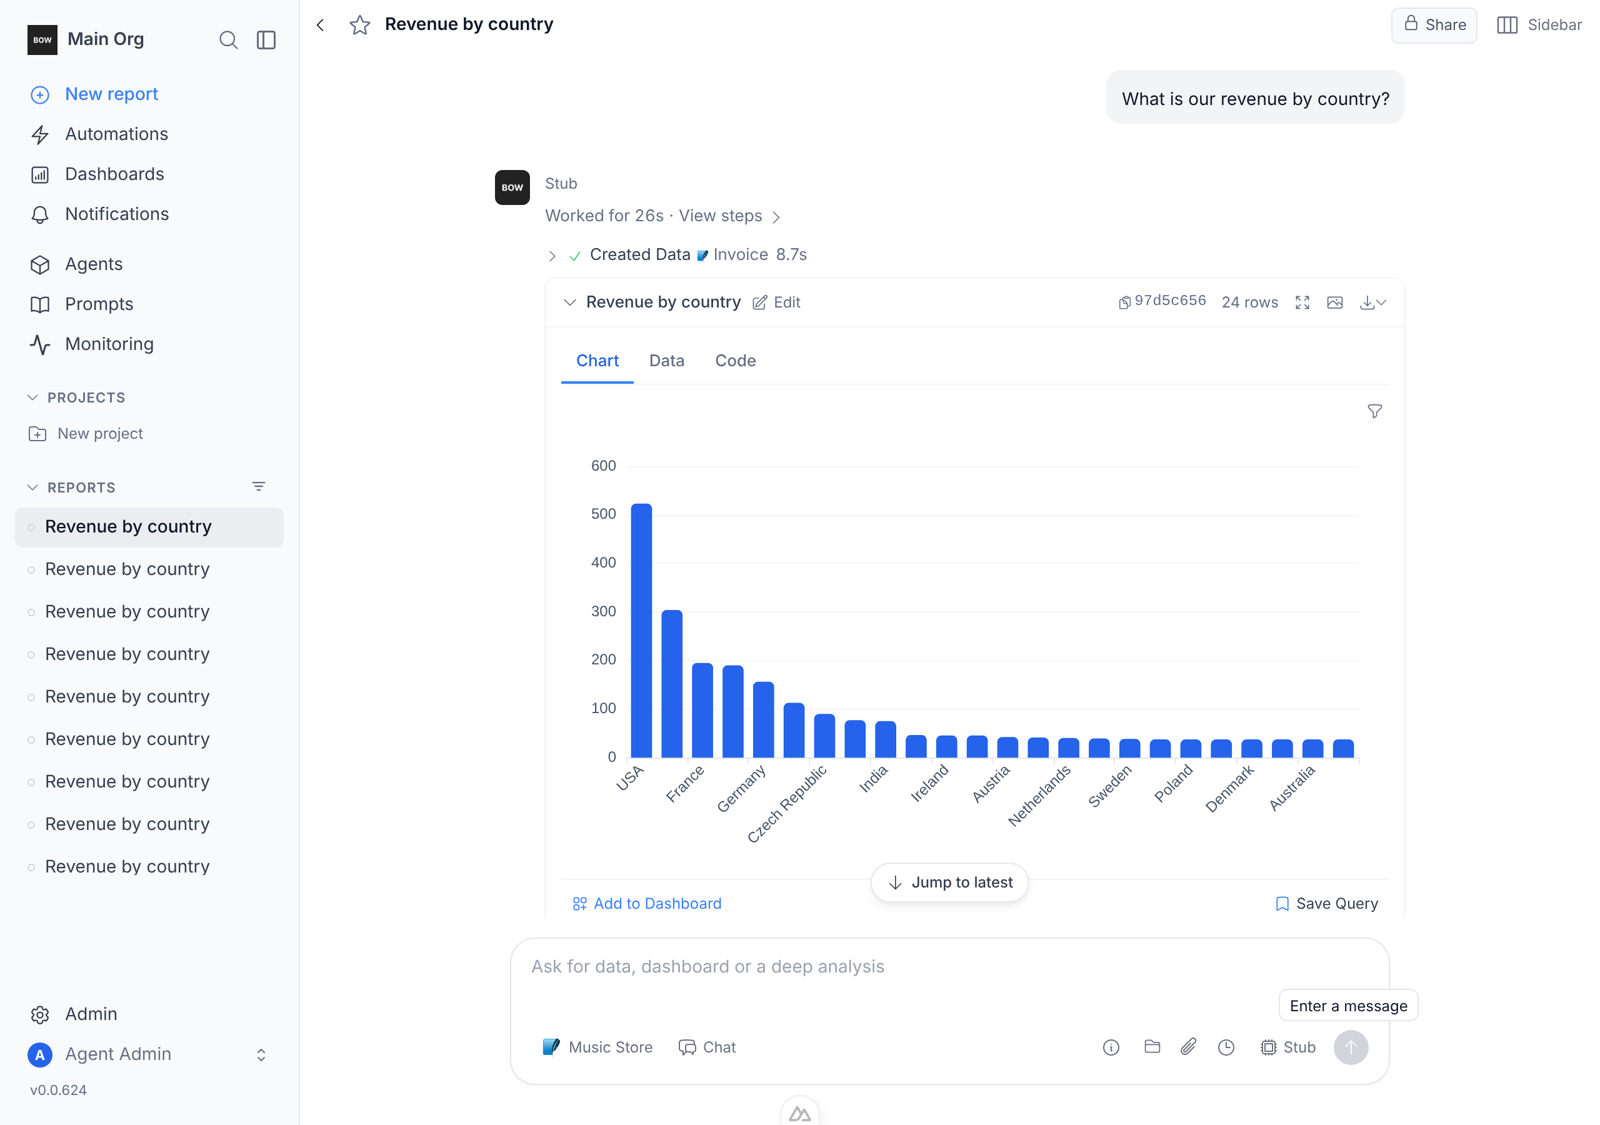
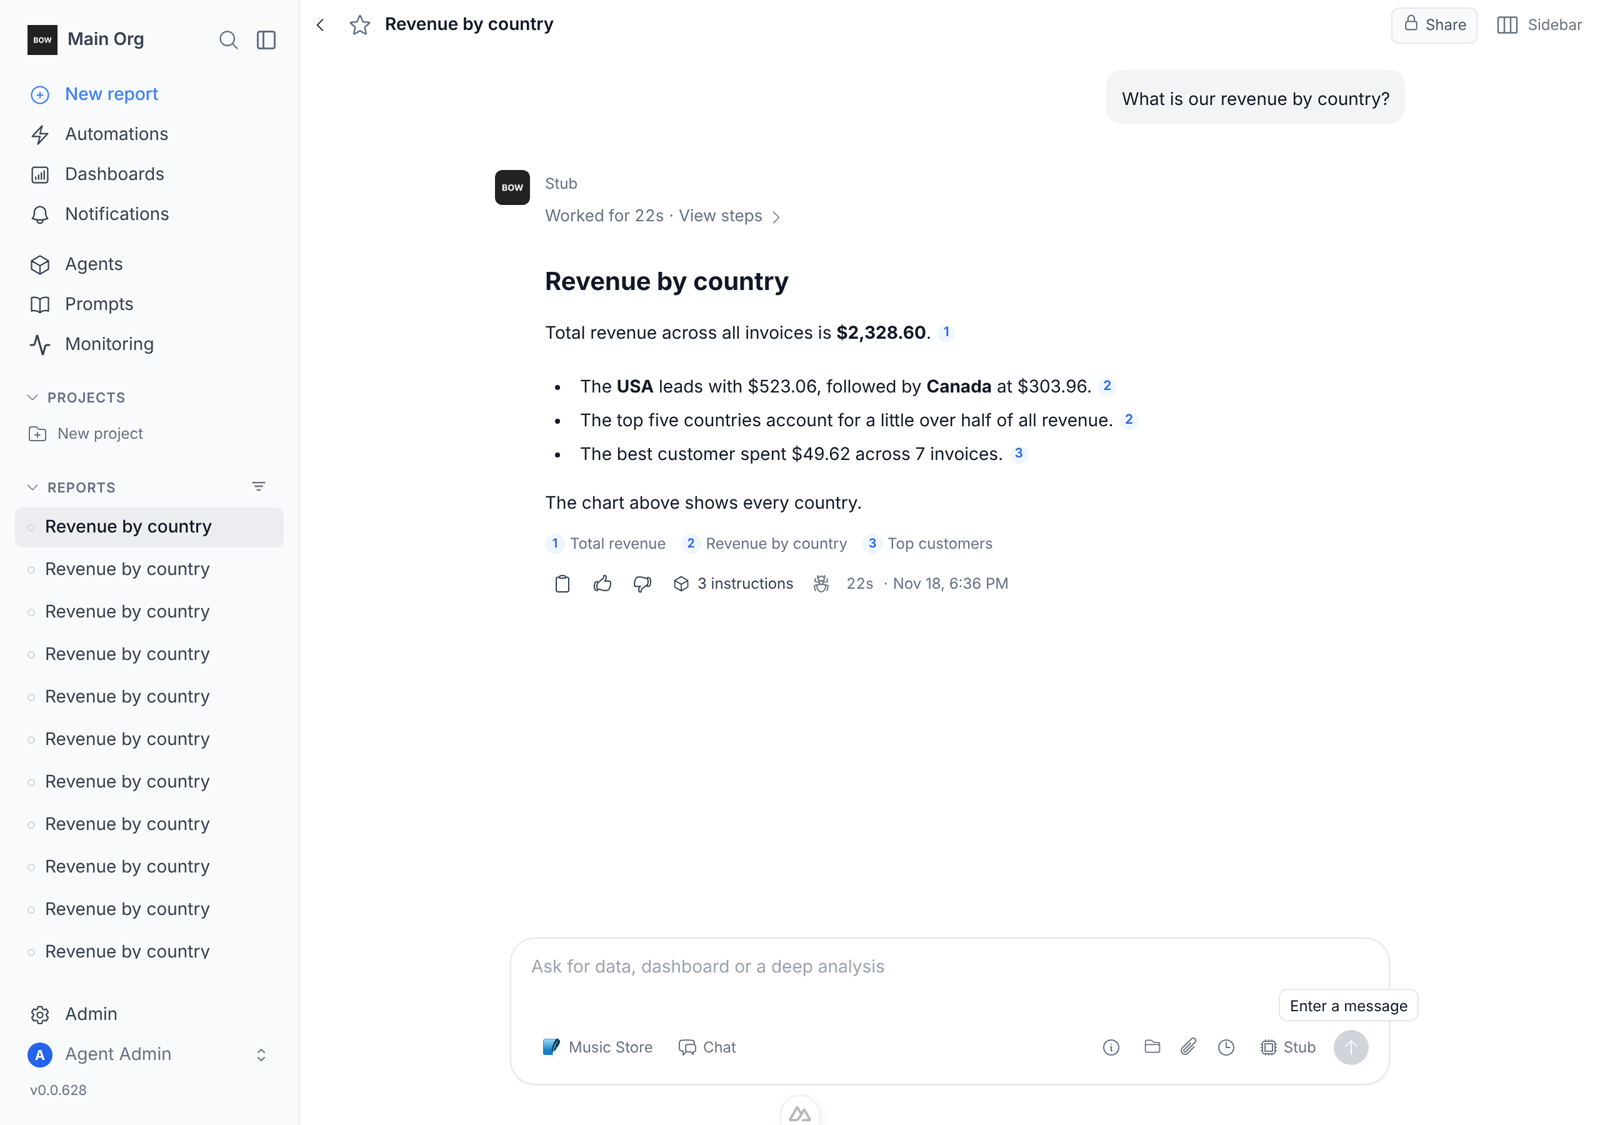
fix(reports): fold charts into the steps like every other result
A finished run now collapses all of its activity, charts included. Before,
a create_data call that produced a chart stayed open above the answer, so
a run that charted six results buried its conclusion under six cards.

Every create_data result is now a step ("Created the chart …", with its
Open action), reached from the answer through its citations and sources
line: hover previews the chart, click opens it in the side pane. The
inline-chart special case (RunActivity.inlineIds, isRunInlineBlock,
isRunProseShown and its CSS) is removed from both the report page and the
shared link.

Claude-Session: https://claude.ai/code/session_01AX2WHLUjRUHL2tgUamqwp4

diff --git a/frontend/pages/reports/[id]/index.vue b/frontend/pages/reports/[id]/index.vue
@@ -382,7 +382,7 @@
 													</div>
 												</div>
 											</div>
-											<div v-if="isRunBlockShown(m, block)" class="response-block" :class="{ 'activity-only': !(block.content || block.plan_decision?.assistant || block.plan_decision?.final_answer) && !shouldShowToolWidgetPreview(block.tool_execution), 'run-activity': isRunActivityBlock(m, block), 'run-inline': isRunInlineBlock(m, block) }" :data-run-final="isRunAnswerBlock(m, block) ? '' : undefined">
+											<div v-if="isRunBlockShown(m, block)" class="response-block" :class="{ 'activity-only': !(block.content || block.plan_decision?.assistant || block.plan_decision?.final_answer) && !shouldShowToolWidgetPreview(block.tool_execution), 'run-activity': isRunActivityBlock(m, block) }" :data-run-final="isRunAnswerBlock(m, block) ? '' : undefined">
 											<!-- Live ticker for a run of low-signal tool steps: one line that
 											     morphs in place while the run works (crossfade between step
 											     labels), then settles into a compact summary; click expands
@@ -462,7 +462,7 @@
 							<!-- 2. Block content - assistant message (hybrid streaming) -->
 							<!-- Prioritize final_answer over assistant - final_answer is the actual response -->
 							<!-- Show content section when: content exists OR final_answer exists OR assistant exists -->
-							<div v-if="(block.content || block.plan_decision?.final_answer || block.plan_decision?.assistant) && isRunProseShown(m, block) && block.status !== 'error' && block.tool_execution?.tool_name !== 'clarify'" class="block-content markdown-wrapper text-ink dark:text-gray-100" :dir="responseDir" :data-response-dir="responseDir">
+							<div v-if="(block.content || block.plan_decision?.final_answer || block.plan_decision?.assistant) && block.status !== 'error' && block.tool_execution?.tool_name !== 'clarify'" class="block-content markdown-wrapper text-ink dark:text-gray-100" :dir="responseDir" :data-response-dir="responseDir">
 								<MarkdownRender
 									:content="answerMarkdown(m, block)"
 									:final="isBlockFinalized(block)"
@@ -487,13 +487,13 @@
 												/>
 
 							<!-- 3. Tool execution (ALWAYS visible outside thinking) -->
-												<div v-if="block.tool_execution && isRunToolShown(m, block)" class="tool-execution-container text-start" :class="{ 'run-step-detail': !!runFold(m) && !isRunInlineBlock(m, block) }"  :dir="responseDir" :data-step-id="block.tool_execution?.created_step?.id || block.tool_execution?.created_step_id || ''">
+												<div v-if="block.tool_execution && isRunToolShown(m, block)" class="tool-execution-container text-start" :class="{ 'run-step-detail': !!runFold(m) }"  :dir="responseDir" :data-step-id="block.tool_execution?.created_step?.id || block.tool_execution?.created_step_id || ''">
 												<component
 													v-if="shouldUseToolComponent(block.tool_execution)"
 													:is="getToolComponent(block.tool_execution.tool_name)"
 													:key="block.id"
 													:tool-execution="block.tool_execution"
-														:hide-preview="(!!runFold(m) && block.tool_execution.tool_name === 'create_data' && !isRunInlineBlock(m, block)) || undefined"
+														:hide-preview="(!!runFold(m) && block.tool_execution.tool_name === 'create_data') || undefined"
 	                                                    :run-status="m.status"
 													:edit-group-count="editRunInfo(m, block)?.count"
 													:edit-group-last-new-text="editRunInfo(m, block)?.lastNewText"
@@ -1759,11 +1759,9 @@ const {
 	toggleRun,
 	isRunStepExpanded,
 	toggleRunStep,
-	isRunInlineBlock,
 	isRunAnswerBlock,
 	isRunBlockShown,
 	isRunActivityBlock,
-	isRunProseShown,
 	runStepHeaderFor,
 	isRunStepDetail,
 	isRunReasoningShown,
@@ -6947,11 +6945,6 @@ onMounted(async () => {
 }
 .response-block.activity-only + .response-block.activity-only {
     --response-block-gap: 8px;
-}
-/* An inline chart shown while the steps are closed sits between the row and
-   the answer with the usual block spacing. */
-.response-block.run-inline:not(.run-activity) {
-    margin-block: 8px 12px;
 }
 
 /* Folded run, opened: the chain reads as one indented thread above the

diff --git a/frontend/pages/c/[token]/index.vue b/frontend/pages/c/[token]/index.vue
@@ -137,7 +137,7 @@
                                         />
                                         <!-- Render each completion block -->
                                         <template v-for="block in timelineBlocks(m)" :key="block.id">
-                                        <div v-if="isRunBlockShown(m, block)" :class="{ 'run-activity': isRunActivityBlock(m, block), 'run-inline': isRunInlineBlock(m, block) }" :data-run-final="isRunAnswerBlock(m, block) ? '' : undefined">
+                                        <div v-if="isRunBlockShown(m, block)" :class="{ 'run-activity': isRunActivityBlock(m, block) }" :data-run-final="isRunAnswerBlock(m, block) ? '' : undefined">
                                             <!-- Live ticker for a run of low-signal tool steps (policy: useBlockGrouping.ts) -->
                                             <Transition name="fade" appear>
                                                 <BlockGroupTicker
@@ -182,7 +182,7 @@
                                             </div>
 
                                             <!-- 2. Block content - assistant message -->
-                                            <div v-if="(block.content || block.plan_decision?.assistant) && !block.plan_decision?.final_answer && block.status !== 'error' && isRunProseShown(m, block)" class="block-content markdown-wrapper text-ink dark:text-gray-100" :dir="messageDirs.get(String(m.id))" :data-response-dir="messageDirs.get(String(m.id))">
+                                            <div v-if="(block.content || block.plan_decision?.assistant) && !block.plan_decision?.final_answer && block.status !== 'error'" class="block-content markdown-wrapper text-ink dark:text-gray-100" :dir="messageDirs.get(String(m.id))" :data-response-dir="messageDirs.get(String(m.id))">
                                                 <MarkdownRender
                                                     :content="citedMarkdown(m, block.content || block.plan_decision?.assistant || '')"
                                                     :final="true"
@@ -204,13 +204,13 @@
                                             />
 
                                             <!-- 3. Tool execution -->
-                                            <div v-if="block.tool_execution && isRunToolShown(m, block)" class="tool-execution-container" :class="{ 'run-step-detail': !!runFold(m) && !isRunInlineBlock(m, block) }">
+                                            <div v-if="block.tool_execution && isRunToolShown(m, block)" class="tool-execution-container" :class="{ 'run-step-detail': !!runFold(m) }">
                                                 <component
                                                     v-if="shouldUseToolComponent(block.tool_execution)"
                                                     :is="getToolComponent(block.tool_execution.tool_name)"
                                                     :key="`${block.id}:${block.tool_execution.id || 'noid'}`"
                                                     :tool-execution="block.tool_execution"
-                                                    :hide-preview="(!!runFold(m) && block.tool_execution.tool_name === 'create_data' && !isRunInlineBlock(m, block)) || undefined"
+                                                    :hide-preview="(!!runFold(m) && block.tool_execution.tool_name === 'create_data') || undefined"
                                                     :readonly="true"
                                                 />
                                                 <!-- Fallback to generic expandable tool display -->
@@ -638,11 +638,9 @@ const {
     toggleRun,
     isRunStepExpanded,
     toggleRunStep,
-    isRunInlineBlock,
     isRunAnswerBlock,
     isRunBlockShown,
     isRunActivityBlock,
-    isRunProseShown,
     runStepHeaderFor,
     isRunStepDetail,
     isRunReasoningShown,
@@ -1201,9 +1199,6 @@ onUnmounted(() => {
 }
 .run-activity:has(+ :not(.run-activity)) {
     margin-block-end: 12px;
-}
-.run-inline:not(.run-activity) {
-    margin-block: 6px 12px;
 }
 .run-step-detail {
     padding-inline-start: 18px;

diff --git a/frontend/composables/useRunActivity.ts b/frontend/composables/useRunActivity.ts
@@ -21,12 +21,11 @@
  *   keeps its chronological place. Reasoning does not — it rides inside the
  *   step it preceded.
  * - A `create_data` call is always its own step, described by what it produced.
- * - A chart is the one result prose cannot stand in for: a `create_data` call
- *   that produced a chart is never folded. It is returned in `inlineIds` and
- *   keeps its card where it happened, above the conclusion.
- * - Tables and single values fold into their step. They stay reachable from
- *   the answer itself through its sources (composables/useCitations.ts), not
- *   as cards appended to it.
+ * - Every `create_data` result — chart, table or single value — folds into its
+ *   step. Results stay reachable from the answer itself through its citations
+ *   and sources line (composables/useCitations.ts): hover previews them, click
+ *   opens them. Keeping charts open above the answer was tried and dropped: a
+ *   run that charts six results buried its conclusion under six cards.
  * - Other outputs the user would open or act on (dashboards, docs, review
  *   cards…) are returned as `deliverableIds` so the page can keep them
  *   reachable below the final message while the steps are collapsed.
@@ -243,8 +242,6 @@ export interface RunActivity {
   stepOf: Record<string, RunStep>
   /** blockId of each step's first member -> step (header render anchor) */
   headerAt: Record<string, RunStep>
-  /** create_data blocks that produced a chart: never folded, card kept in place. */
-  inlineIds: string[]
   /** Blocks whose output stays reachable below the final message, in order. */
   deliverableIds: string[]
   /** First activity start -> final message start, or null without timestamps. */
@@ -383,12 +380,6 @@ function toMs(v: any): number | null {
   return Number.isFinite(t) ? t : null
 }
 
-/** A create_data call whose result is a chart. */
-export function isInlineChart(block: any): boolean {
-  const te = block?.tool_execution
-  return te?.tool_name === 'create_data' && !isBlockFailed(block) && describeDataOutput(te).kind === 'chart'
-}
-
 /**
  * The block that ends the run's conclusion, or null while there is none. When
  * it also carries a tool call, the prose block right before it is part of the
@@ -447,15 +438,8 @@ export function computeRunActivity(
     runPurpose = null
   }
 
-  const inlineIds: string[] = []
   for (const b of list) {
     if (!b?.tool_execution) { flush(); continue }
-    if (isInlineChart(b)) {
-      // Not a step: the card itself is on screen, open or closed.
-      flush()
-      inlineIds.push(String(b.id))
-      continue
-    }
     const purpose = purposeOf(b)
     const continues = !!runPurpose
       && runPurpose.key === purpose.key
@@ -496,7 +480,6 @@ export function computeRunActivity(
     steps,
     stepOf,
     headerAt,
-    inlineIds,
     deliverableIds: Array.from(latest.values()),
     spanMs,
   }

diff --git a/frontend/composables/useRunFold.ts b/frontend/composables/useRunFold.ts
@@ -67,23 +67,16 @@ export function useRunFold<M>(opts: {
     expandedRunSteps.value = next
   }
 
-  // A create_data call that produced a chart: never folded, card kept in place.
-  const isRunInlineBlock = (m: M, block: any): boolean => !!runFold(m)?.inlineIds.includes(String(block.id))
   // Part of the answer shown while the steps are closed.
   const isRunAnswerBlock = (m: M, block: any): boolean => !!runFold(m)?.answerIds.includes(String(block.id))
-  // The answer and inline charts always render; the rest only while open.
+  // The answer always renders; the activity before it only while open.
   function isRunBlockShown(m: M, block: any): boolean {
-    return !runFold(m) || isRunExpanded(m) || isRunAnswerBlock(m, block) || isRunInlineBlock(m, block)
+    return !runFold(m) || isRunExpanded(m) || isRunAnswerBlock(m, block)
   }
   // Part of the indented thread: everything before the answer while the steps
-  // are open. A chart shown while they are closed stands on its own.
+  // are open.
   function isRunActivityBlock(m: M, block: any): boolean {
     return !!runFold(m) && !isRunAnswerBlock(m, block) && isRunExpanded(m)
-  }
-  // Progress prose belongs to the chain: with the steps closed, an inline chart
-  // shows its card only, not the sentence that introduced it.
-  function isRunProseShown(m: M, block: any): boolean {
-    return !runFold(m) || isRunExpanded(m) || isRunAnswerBlock(m, block)
   }
   function runStepHeaderFor(m: M, block: any): RunStep | undefined {
     const fold = runFold(m)
@@ -105,7 +98,7 @@ export function useRunFold<M>(opts: {
   }
   function isRunToolShown(m: M, block: any): boolean {
     const fold = runFold(m)
-    if (!fold || isRunInlineBlock(m, block)) return true
+    if (!fold) return true
     const step = fold.stepOf[String(block.id)]
     return isRunExpanded(m) && !!step && isRunStepExpanded(step.id)
   }
@@ -124,11 +117,9 @@ export function useRunFold<M>(opts: {
     toggleRun,
     isRunStepExpanded,
     toggleRunStep,
-    isRunInlineBlock,
     isRunAnswerBlock,
     isRunBlockShown,
     isRunActivityBlock,
-    isRunProseShown,
     runStepHeaderFor,
     isRunStepDetail,
     isRunReasoningShown,

diff --git a/tools/agent/run_fold_stub_llm.py b/tools/agent/run_fold_stub_llm.py
@@ -49,7 +49,7 @@ Total revenue across all invoices is **$2,328.60**. {cite_total}
 - The top five countries account for a little over half of all revenue. {cite_chart}
 - The best customer spent $49.62 across 7 invoices. {cite_table}
 
-The chart above shows every country.
+The full breakdown by country is in the Revenue by country chart.
 """
 
 
